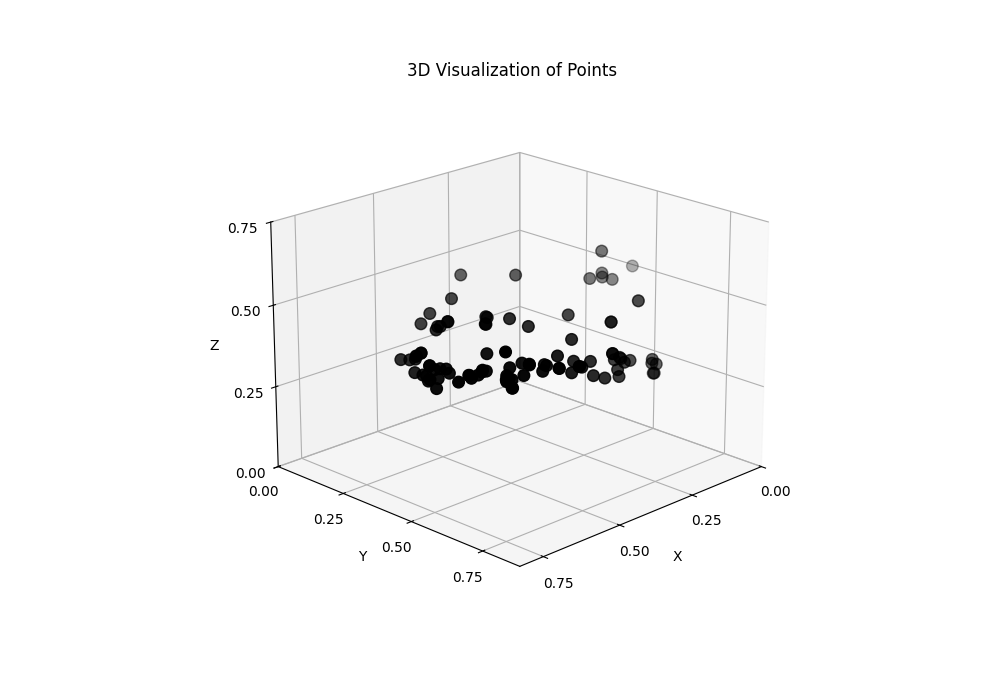
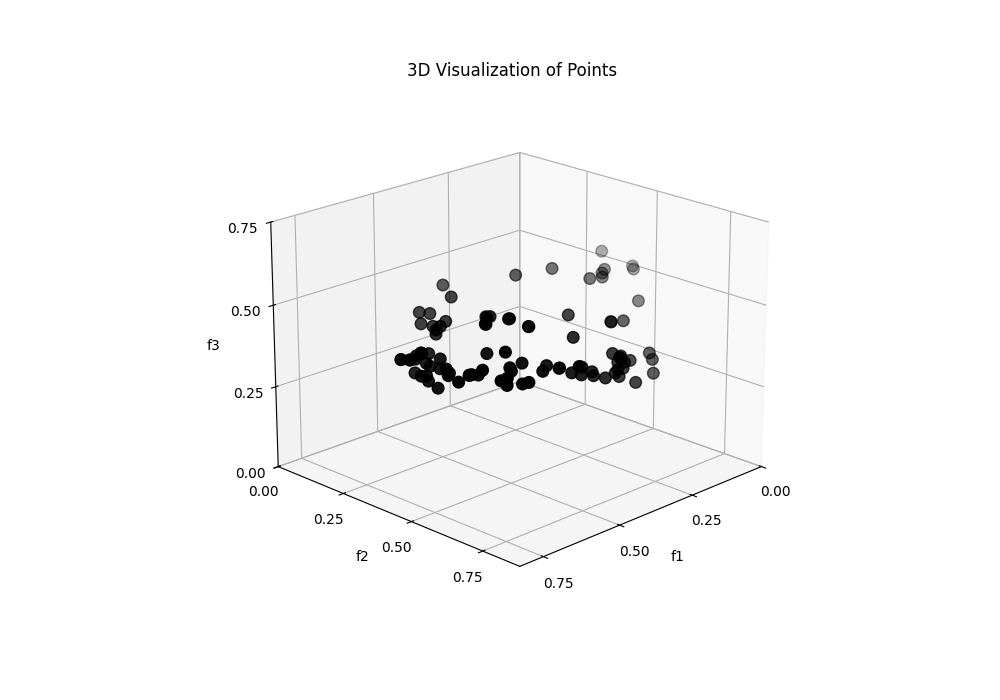
add_resultOf3Algorithm

diff --git a/BCE-IBEA.py b/BCE-IBEA.py
@@ -8,18 +8,77 @@ import matplotlib.pyplot as plt
 from mpl_toolkits.mplot3d import Axes3D
 from entry import EA
 
-lb = jnp.full(shape=(12,), fill_value=0)  # 下界：维度为2，值为 -32
-ub = jnp.full(shape=(12,), fill_value=1)   # 上界：维度为2，值为 32
+lb1_6 = jnp.full(shape=(12,), fill_value=0)  # 下界：维度为2
+ub1_6 = jnp.full(shape=(12,), fill_value=1)   # 上界：维度为2
 
+lb7 = jnp.full(shape=(22,), fill_value=0)  # 下界：维度为2
+ub7 = jnp.full(shape=(22,), fill_value=1)   # 上界：维度为2
 
+lb8_9 = jnp.full(shape=(2,),fill_value=-10000)
+ub8_9 = jnp.full(shape=(2,),fill_value=10000)
+
+lb10_12 = jnp.zeros(shape=(12,))  # 下界：全为 0
+ub10_12 = jnp.array([2 * (i + 1) for i in range(12)])  # 上界：每个变量 [0, 2*(i+1)]
+
+# 定义下界和上界
+lb_13 = jnp.array([0, 0, -2, -2, -2])  # 下界：前两个变量是 [0, 0]，后三个是 [-2, -2, -2]
+ub_13 = jnp.array([1, 1,  2,  2,  2])  # 上界：前两个变量是 [1, 1]，后三个是 [ 2,  2,  2]
+
+lb14 = jnp.full(shape=(60,), fill_value=0)  # 下界：维度为2
+ub14 = jnp.full(shape=(60,), fill_value=1)   # 上界：维度为2
+
+lb15 = jnp.full(shape=(60,), fill_value=0)  # 下界：维度为2
+ub15 = jnp.full(shape=(60,), fill_value=1)   # 上界：维度为2
 # 初始化 NSGA2
-bceibea = algorithms.BCEIBEA(
-    lb=lb,              # 下界数组
-    ub=ub,              # 上界数组
+bce_ibea_1_6 = algorithms.BCEIBEA(
+    lb=lb1_6,              # 下界数组
+    ub=ub1_6,              # 上界数组
     n_objs=3,           # 三目标优化问题
     pop_size=100,       # 种群大小为 100
 )
 
+# 初始化 NSGA2
+bce_ibea_7 = algorithms.BCEIBEA(
+    lb=lb7,              # 下界数组
+    ub=ub7,              # 上界数组
+    n_objs=3,           # 三目标优化问题
+    pop_size=100,       # 种群大小为 100
+)
+
+bce_ibea_8_9 = algorithms.BCEIBEA(
+    lb=lb8_9,              # 下界数组
+    ub=ub8_9,              # 上界数组
+    n_objs=3,           # 三目标优化问题
+    pop_size=100,       # 种群大小为 100
+)
+
+bce_ibea_10_12 = algorithms.BCEIBEA(
+    lb=lb10_12,              # 下界数组
+    ub=ub10_12,              # 上界数组
+    n_objs=3,           # 三目标优化问题
+    pop_size=100,       # 种群大小为 100
+)
+
+bce_ibea_13= algorithms.BCEIBEA(
+    lb=lb_13,              # 下界数组
+    ub=ub_13,              # 上界数组
+    n_objs=3,           # 三目标优化问题
+    pop_size=100,       # 种群大小为 100
+)
+
+bce_ibea_14= algorithms.BCEIBEA(
+    lb=lb14,              # 下界数组
+    ub=ub14,              # 上界数组
+    n_objs=3,           # 三目标优化问题
+    pop_size=100,       # 种群大小为 100
+)
+
+bce_ibea_15= algorithms.BCEIBEA(
+    lb=lb15,              # 下界数组
+    ub=ub15,              # 上界数组
+    n_objs=3,           # 三目标优化问题
+    pop_size=100,       # 种群大小为 100
+)
 TestBench = [problems.numerical.MaF1(),
     problems.numerical.MaF2(),
     problems.numerical.MaF3(),
@@ -37,5 +96,25 @@ TestBench = [problems.numerical.MaF1(),
     problems.numerical.MaF15(),
 ]
 
-for i in range(6):
-    EA(TestBench[i],bceibea ,"BCE-IBEA","MaF{}".format(i+1))
+for i in range(15):
+    if i <= 5:
+        #pass
+        EA(TestBench[i],bce_ibea_1_6,"BCE-IBEA","MaF{}".format(i+1))
+    elif i == 6:
+        #pass
+        EA(TestBench[6],bce_ibea_7,"BCE-IBEA","MaF7")
+    elif i == 7 and i ==8 :
+        #pass
+        EA(TestBench[i],bce_ibea_8_9,"BCE-IBEA","MaF{}".format(i+1))
+    elif i>=9 and i<=11:
+        #pass
+        EA(TestBench[i],bce_ibea_10_12,"BCE-IBEA","MaF{}".format(i+1))
+    elif i == 12:
+        #pass
+        EA(TestBench[12],bce_ibea_13,"BCE-IBEA","MaF13")
+    elif i == 13:
+        #pass
+        EA(TestBench[i],bce_ibea_14,"BCE-IBEA","MaF{}".format(i+1))
+    else:
+        #pass
+        EA(TestBench[i],bce_ibea_15,"BCE-IBEA","MaF{}".format(i+1))

diff --git a/NSGA-II.py b/NSGA-II.py
@@ -8,18 +8,77 @@ import matplotlib.pyplot as plt
 from mpl_toolkits.mplot3d import Axes3D
 from entry import EA
 
-lb = jnp.full(shape=(12,), fill_value=0)  # 下界：维度为2，值为 -32
-ub = jnp.full(shape=(12,), fill_value=1)   # 上界：维度为2，值为 32
+lb1_6 = jnp.full(shape=(12,), fill_value=0)  # 下界：维度为2
+ub1_6 = jnp.full(shape=(12,), fill_value=1)   # 上界：维度为2
 
+lb7 = jnp.full(shape=(22,), fill_value=0)  # 下界：维度为2
+ub7 = jnp.full(shape=(22,), fill_value=1)   # 上界：维度为2
 
+lb8_9 = jnp.full(shape=(2,),fill_value=-10000)
+ub8_9 = jnp.full(shape=(2,),fill_value=10000)
+
+lb10_12 = jnp.zeros(shape=(12,))  # 下界：全为 0
+ub10_12 = jnp.array([2 * (i + 1) for i in range(12)])  # 上界：每个变量 [0, 2*(i+1)]
+
+# 定义下界和上界
+lb_13 = jnp.array([0, 0, -2, -2, -2])  # 下界：前两个变量是 [0, 0]，后三个是 [-2, -2, -2]
+ub_13 = jnp.array([1, 1,  2,  2,  2])  # 上界：前两个变量是 [1, 1]，后三个是 [ 2,  2,  2]
+
+lb14 = jnp.full(shape=(60,), fill_value=0)  # 下界：维度为2
+ub14 = jnp.full(shape=(60,), fill_value=1)   # 上界：维度为2
+
+lb15 = jnp.full(shape=(60,), fill_value=0)  # 下界：维度为2
+ub15 = jnp.full(shape=(60,), fill_value=1)   # 上界：维度为2
 # 初始化 NSGA2
-nsga2 = algorithms.NSGA2(
-    lb=lb,              # 下界数组
-    ub=ub,              # 上界数组
+nsga2_1_6 = algorithms.NSGA2(
+    lb=lb1_6,              # 下界数组
+    ub=ub1_6,              # 上界数组
     n_objs=3,           # 三目标优化问题
     pop_size=100,       # 种群大小为 100
 )
 
+# 初始化 NSGA2
+nsga2_7 = algorithms.NSGA2(
+    lb=lb7,              # 下界数组
+    ub=ub7,              # 上界数组
+    n_objs=3,           # 三目标优化问题
+    pop_size=100,       # 种群大小为 100
+)
+
+nsga2_8_9 = algorithms.NSGA2(
+    lb=lb8_9,              # 下界数组
+    ub=ub8_9,              # 上界数组
+    n_objs=3,           # 三目标优化问题
+    pop_size=100,       # 种群大小为 100
+)
+
+nsga2_10_12 = algorithms.NSGA2(
+    lb=lb10_12,              # 下界数组
+    ub=ub10_12,              # 上界数组
+    n_objs=3,           # 三目标优化问题
+    pop_size=100,       # 种群大小为 100
+)
+
+nsga2_13= algorithms.NSGA2(
+    lb=lb_13,              # 下界数组
+    ub=ub_13,              # 上界数组
+    n_objs=3,           # 三目标优化问题
+    pop_size=100,       # 种群大小为 100
+)
+
+nsga2_14= algorithms.NSGA2(
+    lb=lb14,              # 下界数组
+    ub=ub14,              # 上界数组
+    n_objs=3,           # 三目标优化问题
+    pop_size=100,       # 种群大小为 100
+)
+
+nsga2_15= algorithms.NSGA2(
+    lb=lb15,              # 下界数组
+    ub=ub15,              # 上界数组
+    n_objs=3,           # 三目标优化问题
+    pop_size=100,       # 种群大小为 100
+)
 TestBench = [problems.numerical.MaF1(),
     problems.numerical.MaF2(),
     problems.numerical.MaF3(),
@@ -37,5 +96,25 @@ TestBench = [problems.numerical.MaF1(),
     problems.numerical.MaF15(),
 ]
 
-for i in range(6):
-    EA(TestBench[i],nsga2,"NSGA-II","MaF{}".format(i+1))
+for i in range(15):
+    if i <= 5:
+        #pass
+        EA(TestBench[i],nsga2_1_6,"NSGA-II","MaF{}".format(i+1))
+    elif i == 6:
+        #pass
+        EA(TestBench[6],nsga2_7,"NSGA-II","MaF7")
+    elif i == 7 and i ==8 :
+        #pass
+        EA(TestBench[i],nsga2_8_9,"NSGA-II","MaF{}".format(i+1))
+    elif i>=9 and i<=11:
+        #pass
+        EA(TestBench[i],nsga2_10_12,"NSGA-II","MaF{}".format(i+1))
+    elif i == 12:
+        #pass
+        EA(TestBench[12],nsga2_13,"NSGA-II","MaF13")
+    elif i == 13:
+        #pass
+        EA(TestBench[i],nsga2_14,"NSGA-II","MaF{}".format(i+1))
+    else:
+        #pass
+        EA(TestBench[i],nsga2_15,"NSGA-II","MaF{}".format(i+1))

diff --git a/SPEA2.py b/SPEA2.py
@@ -8,18 +8,77 @@ import matplotlib.pyplot as plt
 from mpl_toolkits.mplot3d import Axes3D
 from entry import EA
 
-lb = jnp.full(shape=(12,), fill_value=0)  # 下界：维度为2，值为 -32
-ub = jnp.full(shape=(12,), fill_value=1)   # 上界：维度为2，值为 32
+lb1_6 = jnp.full(shape=(12,), fill_value=0)  # 下界：维度为2
+ub1_6 = jnp.full(shape=(12,), fill_value=1)   # 上界：维度为2
 
+lb7 = jnp.full(shape=(22,), fill_value=0)  # 下界：维度为2
+ub7 = jnp.full(shape=(22,), fill_value=1)   # 上界：维度为2
 
+lb8_9 = jnp.full(shape=(2,),fill_value=-10000)
+ub8_9 = jnp.full(shape=(2,),fill_value=10000)
+
+lb10_12 = jnp.zeros(shape=(12,))  # 下界：全为 0
+ub10_12 = jnp.array([2 * (i + 1) for i in range(12)])  # 上界：每个变量 [0, 2*(i+1)]
+
+# 定义下界和上界
+lb_13 = jnp.array([0, 0, -2, -2, -2])  # 下界：前两个变量是 [0, 0]，后三个是 [-2, -2, -2]
+ub_13 = jnp.array([1, 1,  2,  2,  2])  # 上界：前两个变量是 [1, 1]，后三个是 [ 2,  2,  2]
+
+lb14 = jnp.full(shape=(60,), fill_value=0)  # 下界：维度为2
+ub14 = jnp.full(shape=(60,), fill_value=1)   # 上界：维度为2
+
+lb15 = jnp.full(shape=(60,), fill_value=0)  # 下界：维度为2
+ub15 = jnp.full(shape=(60,), fill_value=1)   # 上界：维度为2
 # 初始化 NSGA2
-spea2 = algorithms.SPEA2(
-    lb=lb,              # 下界数组
-    ub=ub,              # 上界数组
+spea2_1_6 = algorithms.SPEA2(
+    lb=lb1_6,              # 下界数组
+    ub=ub1_6,              # 上界数组
     n_objs=3,           # 三目标优化问题
     pop_size=100,       # 种群大小为 100
 )
 
+# 初始化 NSGA2
+spea2_7 = algorithms.SPEA2(
+    lb=lb7,              # 下界数组
+    ub=ub7,              # 上界数组
+    n_objs=3,           # 三目标优化问题
+    pop_size=100,       # 种群大小为 100
+)
+
+spea2_8_9 = algorithms.SPEA2(
+    lb=lb8_9,              # 下界数组
+    ub=ub8_9,              # 上界数组
+    n_objs=3,           # 三目标优化问题
+    pop_size=100,       # 种群大小为 100
+)
+
+spea2_10_12 = algorithms.SPEA2(
+    lb=lb10_12,              # 下界数组
+    ub=ub10_12,              # 上界数组
+    n_objs=3,           # 三目标优化问题
+    pop_size=100,       # 种群大小为 100
+)
+
+spea2_13= algorithms.SPEA2(
+    lb=lb_13,              # 下界数组
+    ub=ub_13,              # 上界数组
+    n_objs=3,           # 三目标优化问题
+    pop_size=100,       # 种群大小为 100
+)
+
+spea2_14= algorithms.SPEA2(
+    lb=lb14,              # 下界数组
+    ub=ub14,              # 上界数组
+    n_objs=3,           # 三目标优化问题
+    pop_size=100,       # 种群大小为 100
+)
+
+spea2_15= algorithms.SPEA2(
+    lb=lb15,              # 下界数组
+    ub=ub15,              # 上界数组
+    n_objs=3,           # 三目标优化问题
+    pop_size=100,       # 种群大小为 100
+)
 TestBench = [problems.numerical.MaF1(),
     problems.numerical.MaF2(),
     problems.numerical.MaF3(),
@@ -37,5 +96,25 @@ TestBench = [problems.numerical.MaF1(),
     problems.numerical.MaF15(),
 ]
 
-for i in range(6):
-    EA(TestBench[i],spea2,"SPEA2","MaF{}".format(i+1))
+for i in range(15):
+    if i <= 5:
+        pass
+        #EA(TestBench[i],spea2_1_6,"SPEA2","MaF{}".format(i+1))
+    elif i == 6:
+        pass
+        #EA(TestBench[6],spea2_7,"SPEA2","MaF7")
+    elif i == 7 and i ==8 :
+        pass
+        #EA(TestBench[i],spea2_8_9,"SPEA2","MaF{}".format(i+1))
+    elif i>=9 and i<=11:
+        pass
+        #EA(TestBench[i],spea2_10_12,"SPEA2","MaF{}".format(i+1))
+    elif i == 12:
+        pass
+        #EA(TestBench[12],spea2_13,"SPEA2","MaF13")
+    elif i == 13:
+        pass
+        #EA(TestBench[i],spea2_14,"SPEA2","MaF{}".format(i+1))
+    else:
+        pass
+        #EA(TestBench[i],spea2_15,"SPEA2","MaF{}".format(i+1))

diff --git a/entry.py b/entry.py
@@ -64,9 +64,9 @@ def EA(mo_problem,mo_algorithm,algo_name,benchName):
                     )
 
     # 设置坐标轴标题和刻度
-    ax.set(xlabel='X',
-        ylabel='Y',
-        zlabel='Z',
+    ax.set(xlabel='f1',
+        ylabel='f2',
+        zlabel='f3',
         xticks=np.arange(0,math.ceil(max(x)),max(math.ceil(max(x))/4,0.2)),
         yticks=np.arange(0,math.ceil(max(y)),max(math.ceil(max(y))/4,0.2)),
         zticks=np.arange(0,math.ceil(max(z)),max(math.ceil(max(z))/4,0.2))
@@ -75,7 +75,7 @@ def EA(mo_problem,mo_algorithm,algo_name,benchName):
     # 调整视角
     angle = 45
     if benchName=="MaF6":
-        angle =75
+        angle =15
     ax.view_init(elev=20,    # 仰角
                 azim=angle    # 方位角
             )

diff --git a/PESA-II.py b/PESA-II.py
@@ -12,7 +12,7 @@ lb = jnp.full(shape=(12,), fill_value=0)  # 下界：维度为2，值为 -32
 ub = jnp.full(shape=(12,), fill_value=1)   # 上界：维度为2，值为 32
 
 
-# 初始化 NSGA2
+# 初始化 pesa2
 pesa2 = algorithms.PESA2(
     lb=lb,              # 下界数组
     ub=ub,              # 上界数组
@@ -38,4 +38,4 @@ TestBench = [problems.numerical.MaF1(),
 ]
 
 for i in range(6):
-    EA(TestBench[i],nsga2,"NSGA-II","MaF{}".format(i+1))
+    EA(TestBench[i],pesa2,"NSGA-II","MaF{}".format(i+1))
